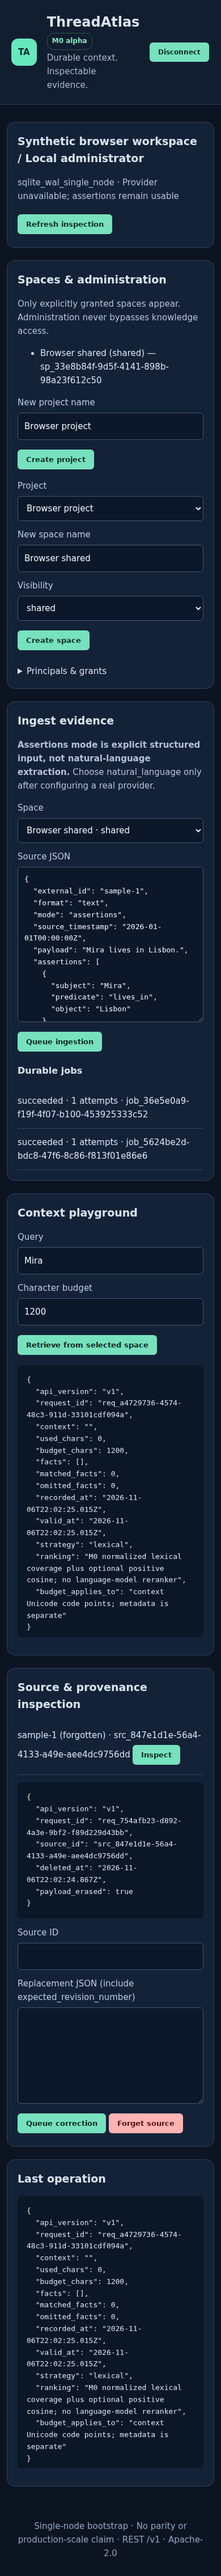
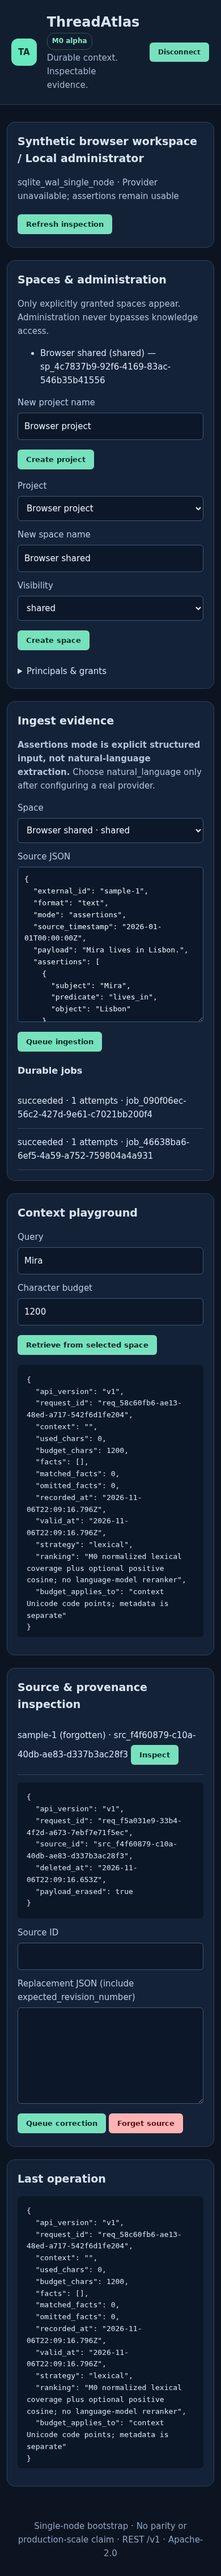
fix: keep engine recommendations diagnostic without a startup gate

diff --git a/scripts/storage-probe.ts b/scripts/storage-probe.ts
@@ -4,53 +4,14 @@ import { Store } from "../src/store.ts";
 import { fixture } from "../tests/helpers.ts";
 import { report, repo } from "./runtime.ts";
 import assert from "node:assert/strict";
-const dir = mkdtempSync(join(repo, ".private-storage-probe-")),
-  path = join(dir, "probe.sqlite");
-const f = await fixture(path);
-let reader: Store | undefined;
+const dir=mkdtempSync(join(repo,".private-storage-probe-")),path=join(dir,"probe.sqlite");
+const f=await fixture(path);let reader:Store|undefined;
 try {
-  const source = (await f.ingest()).body;
-  await f.worker.runOnce();
-  reader = new Store(path);
-  reader.db.exec("BEGIN");
-  reader.one("SELECT * FROM revisions");
-  const start = performance.now();
-  const forgotten = await f.call(
-    "DELETE",
-    "/v1/sources/" + source.source_id,
-    {},
-  );
-  const forget_ms = performance.now() - start;
-  assert.equal(forgotten.status, 200);
-  const while_reader = f.store.checkpoint();
-  assert.equal(while_reader.busy, 1);
-  assert.equal((await f.context()).body.facts.length, 0);
-  reader.db.exec("COMMIT");
-  reader.close();
-  reader = undefined;
-  const after_reader = f.store.checkpoint();
-  assert.equal(after_reader.busy, 0);
-  const result = {
-    run_at: new Date().toISOString(),
-    bun: Bun.version,
-    sqlite_version: f.store.sqlite_version,
-    journal_mode: f.store.one("PRAGMA journal_mode"),
-    synchronous: f.store.one("PRAGMA synchronous"),
-    secure_delete: f.store.one("PRAGMA secure_delete"),
-    busy_timeout: f.store.one("PRAGMA busy_timeout"),
-    long_reader: {
-      forget_ms: +forget_ms.toFixed(3),
-      logical_context_empty: true,
-      checkpoint_while_reader: while_reader,
-      checkpoint_after_reader: after_reader,
-    },
-    integrity_check: f.store.one("PRAGMA integrity_check"),
-    note: "Logical forgetting does not revoke a previously opened MVCC snapshot or external backup. Checkpoint is nonblocking in the API; no forensic erasure claim.",
-  };
-  await report("storage.json", result);
-  console.log(JSON.stringify(result, null, 2));
-} finally {
-  reader?.close();
-  f.store.close();
-  rmSync(dir, { recursive: true, force: true });
-}
+ const source=(await f.ingest()).body;await f.worker.runOnce();reader=new Store(path);reader.db.exec("BEGIN");reader.one("SELECT * FROM revisions");
+ const start=performance.now();const forgotten=await f.call("DELETE","/v1/sources/"+source.source_id,{});const forget_ms=performance.now()-start;
+ assert.equal(forgotten.status,200);const while_reader=f.store.checkpoint();assert.equal(while_reader.busy,1);
+ assert.equal((await f.context()).body.facts.length,0);reader.db.exec("COMMIT");reader.close();reader=undefined;
+ const after_reader=f.store.checkpoint();assert.equal(after_reader.busy,0);
+ const result={run_at:new Date().toISOString(),bun:Bun.version,sqlite_version:f.store.sqlite_version,journal_mode:f.store.one("PRAGMA journal_mode"),synchronous:f.store.one("PRAGMA synchronous"),secure_delete:f.store.one("PRAGMA secure_delete"),busy_timeout:f.store.one("PRAGMA busy_timeout"),long_reader:{forget_ms:+forget_ms.toFixed(3),logical_context_empty:true,checkpoint_while_reader:while_reader,checkpoint_after_reader:after_reader},integrity_check:f.store.one("PRAGMA integrity_check"),note:"Logical forgetting does not revoke a previously opened MVCC snapshot or external backup. Checkpoint is nonblocking in the API; no forensic erasure claim."};
+ await report("storage.json",result);console.log(JSON.stringify(result,null,2));
+}finally{reader?.close();f.store.close();rmSync(dir,{recursive:true,force:true});}

diff --git a/scripts/check-public.ts b/scripts/check-public.ts
@@ -1,8 +1,6 @@
 import { readFileSync } from "node:fs";
 const proc = Bun.spawn(["git", "ls-files", "-z"], { stdout: "pipe" });
-const files = (await new Response(proc.stdout).text())
-  .split("\0")
-  .filter(Boolean);
+const files = (await new Response(proc.stdout).text()).split("\0").filter(Boolean);
 if (await proc.exited) throw Error("git ls-files failed");
 const rules: [string, RegExp][] = [
   ["threadatlas_token", /ta_[A-Za-z0-9_-]{40,}/],
@@ -10,29 +8,12 @@ const rules: [string, RegExp][] = [
   ["openai_key", /sk-(?:proj-)?[A-Za-z0-9_-]{30,}/],
   ["private_key", /-----BEGIN (?:RSA |EC |OPENSSH )?PRIVATE KEY-----/],
 ];
-const findings: { file: string; rule: string }[] = [];
+const findings: {file:string;rule:string}[] = [];
 for (const file of files) {
-  if (
-    /(^|\/)(?:data|\.private[^/]*|node_modules)\//.test(file) ||
-    /\.(?:sqlite(?:-wal|-shm)?|credentials\.json)$/.test(file) ||
-    (/(^|\/)\.env(?:$|\.)/.test(file) && !file.endsWith(".env.example"))
-  )
-    findings.push({ file, rule: "private_path" });
+  if (/(^|\/)(?:data|\.private[^/]*|node_modules)\//.test(file) || /\.(?:sqlite(?:-wal|-shm)?|credentials\.json)$/.test(file) || /(^|\/)\.env(?:$|\.)/.test(file) && !file.endsWith(".env.example")) findings.push({file,rule:"private_path"});
   if (file.endsWith(".png")) continue;
-  const content = readFileSync(file, "utf8");
-  for (const [rule, pattern] of rules)
-    if (pattern.test(content)) findings.push({ file, rule });
+  const content = readFileSync(file,"utf8");
+  for (const [rule,pattern] of rules) if(pattern.test(content)) findings.push({file,rule});
 }
-console.log(
-  JSON.stringify(
-    {
-      result: findings.length ? "fail" : "pass",
-      tracked_files: files.length,
-      findings,
-      note: "Targeted known-token/private-path check, not a guarantee of complete secret detection; manually inspect public changes too.",
-    },
-    null,
-    2,
-  ),
-);
-if (findings.length) process.exitCode = 1;
+console.log(JSON.stringify({result: findings.length?"fail":"pass",tracked_files:files.length,findings,note:"Targeted known-token/private-path check, not a guarantee of complete secret detection; manually inspect public changes too."},null,2));
+if(findings.length)process.exitCode=1;

diff --git a/src/store.ts b/src/store.ts
@@ -75,6 +75,10 @@ export function patchedSQLite(version: string): boolean {
 export class Store {
   db: Database;
   sqlite_version: string;
+  sqlite_wal_reset_fix:
+    | "known_patched"
+    | "upgrade_recommended"
+    | "not_applicable";
   constructor(public path: string) {
     if (path !== ":memory:") {
       mkdirSync(dirname(path), { recursive: true, mode: 0o700 });
@@ -83,12 +87,20 @@ export class Store {
     this.sqlite_version = this.one(
       "SELECT sqlite_version() AS version",
     ).version;
-    if (path !== ":memory:" && !patchedSQLite(this.sqlite_version)) {
-      this.db.close();
-      fail(
-        500,
-        "unsupported_sqlite",
-        "SQLite lacks the WAL-reset corruption fix. Upgrade to Bun 1.4.4+ with patched SQLite (3.51.3+, or 3.50.7/3.44.6 backport). See docs/operations.md.",
+    this.sqlite_wal_reset_fix =
+      path === ":memory:"
+        ? "not_applicable"
+        : patchedSQLite(this.sqlite_version)
+          ? "known_patched"
+          : "upgrade_recommended";
+    if (this.sqlite_wal_reset_fix === "upgrade_recommended") {
+      console.warn(
+        JSON.stringify({
+          event: "sqlite_upgrade_recommended",
+          sqlite_version: this.sqlite_version,
+          message:
+            "This version predates the published WAL-reset fix. Bun 1.4.4 with SQLite 3.53.4 is the verified release baseline; see docs/operations.md. Startup is not blocked.",
+        }),
       );
     }
     if (path !== ":memory:") chmodSync(path, 0o600);

diff --git a/src/app.ts b/src/app.ts
@@ -167,6 +167,7 @@ export class App {
           provider: providerStatus(),
           storage: "sqlite_wal_single_node",
           sqlite_version: this.store.sqlite_version,
+          sqlite_wal_reset_fix: this.store.sqlite_wal_reset_fix,
           extraction_modes: ["assertions", "natural_language"],
           queue: this.store.all(
             "SELECT j.status,COUNT(*) AS count FROM jobs j JOIN revisions r ON r.id=j.revision_id JOIN sources s ON s.id=r.source_id JOIN grants g ON g.space_id=s.space_id AND g.principal_id=? AND g.action='read' WHERE s.workspace_id=? GROUP BY j.status",

diff --git a/tests/storage.test.ts b/tests/storage.test.ts
@@ -4,7 +4,7 @@ import { fixture } from "./helpers.ts";
 import { mkdtempSync, rmSync } from "node:fs";
 import { join } from "node:path";
 
-test("WAL engine guard excludes known vulnerable versions and permits published fixes", () => {
+test("WAL diagnostics identify known unpatched versions and published fixes", () => {
   for (const version of ["3.50.4", "3.51.2", "3.44.5", "invalid"])
     expect(patchedSQLite(version)).toBe(false);
   for (const version of ["3.51.3", "3.53.4", "3.50.7", "3.44.6"])

diff --git a/docs/verification.md b/docs/verification.md
@@ -3,17 +3,17 @@
 Initial alpha verification on 2026-11-06 UTC, Bun 1.4.4 / SQLite 3.53.4 / Linux (WSL2). These commands ran, rather than
 being proposed commands. The repository's CI repeats the portable checks on ubuntu-24.04.
 
-| Command                           | Actual result                                                                                                                                                                           |
-| --------------------------------- | --------------------------------------------------------------------------------------------------------------------------------------------------------------------------------------- |
-| bun install --frozen-lockfile     | Installed/checked the real pinned dependencies                                                                                                                                          |
-| bun run check                     | Passed TypeScript checking                                                                                                                                                              |
-| bun test tests                    | 24 passed, 0 failed, 134 assertions across 4 files                                                                                                                                      |
-| bun run test:e2e                  | Passed real HTTP server, JSON CLI, on-disk WAL, SIGKILL + restart, expired/queued recovery, source history, isolation, forgetting/support repair and integrity_check                    |
-| e2e stopped backup/restore + demo | Passed copied stopped DB into new path, reused saved credential, complete executable agent loop against restored server                                                                 |
-| bun run test:ui                   | Passed Chromium 140 desktop/mobile with actual scopes, ingestion/jobs/context, source inspection, correction/forget, no page errors, no browser-stored token and no horizontal overflow |
-| bun run provider:probe            | Actual production adapter returned failed/provider_unavailable, one attempt, zero facts; no supported key present                                                                       |
-| bun run bench                     | Completed all 120/600/1200-source generated HTTP cases; raw counts/latency/RSS/storage and limitations recorded                                                                         |
-| bun audit                         | No vulnerabilities found in the installed lockfile at execution time                                                                                                                    |
+| Command | Actual result |
+|---|---|
+| bun install --frozen-lockfile | Installed/checked the real pinned dependencies |
+| bun run check | Passed TypeScript checking |
+| bun test tests | 24 passed, 0 failed, 134 assertions across 4 files |
+| bun run test:e2e | Passed real HTTP server, JSON CLI, on-disk WAL, SIGKILL + restart, expired/queued recovery, source history, isolation, forgetting/support repair and integrity_check |
+| e2e stopped backup/restore + demo | Passed copied stopped DB into new path, reused saved credential, complete executable agent loop against restored server |
+| bun run test:ui | Passed Chromium 140 desktop/mobile with actual scopes, ingestion/jobs/context, source inspection, correction/forget, no page errors, no browser-stored token and no horizontal overflow |
+| bun run provider:probe | Actual production adapter returned failed/provider_unavailable, one attempt, zero facts; no supported key present |
+| bun run bench | Completed all 120/600/1200-source generated HTTP cases; raw counts/latency/RSS/storage and limitations recorded |
+| bun audit | No vulnerabilities found in the installed lockfile at execution time |
 
 Async regression coverage includes streamed-body credential revocation, credential/grant revocation
 during query embedding, source forget during embedding (no stale cached fact response), and forget

diff --git a/docs/measurements.md b/docs/measurements.md
@@ -4,11 +4,11 @@ Measured 2026-11-06T22:02:53.176Z on Bun 1.4.4, SQLite 3.53.4, Linux/WSL2, 16 lo
 
 Generated deterministic assertions, real HTTP + on-disk SQLite WAL synchronous FULL, one server + one serial worker. Payload bodies contain padding; 1-4 explicit facts/source. Each query searches one authorized space. RSS sampled /proc at 10ms. Warm retrieval follows complete ingestion. No model, vector or quality/cost/parity claim. These are local measurements, not load guarantees.
 
-| Workload           | Sources / spaces / facts | Payload bytes | Concurrency | Receipts/s | Completed jobs/s | Retrieval p50 / p95 ms | Peak server RSS MiB |
-| ------------------ | -----------------------: | ------------: | ----------: | ---------: | ---------------: | ---------------------: | ------------------: |
-| small              |            120 / 3 / 300 |        61,440 |           4 |      92.19 |            88.04 |         9.492 / 18.983 |               60.18 |
-| varied_multi_space |          600 / 12 / 1500 |     7,475,200 |          24 |     128.99 |            98.26 |        85.714 / 97.189 |               75.38 |
-| larger_hot_space   |          1200 / 4 / 3000 |     5,529,600 |          32 |     134.84 |            93.51 |      657.243 / 836.969 |               89.09 |
+| Workload | Sources / spaces / facts | Payload bytes | Concurrency | Receipts/s | Completed jobs/s | Retrieval p50 / p95 ms | Peak server RSS MiB |
+|---|---:|---:|---:|---:|---:|---:|---:|
+| small | 120 / 3 / 300 | 61,440 | 4 | 92.19 | 88.04 | 9.492 / 18.983 | 60.18 |
+| varied_multi_space | 600 / 12 / 1500 | 7,475,200 | 24 | 128.99 | 98.26 | 85.714 / 97.189 | 75.38 |
+| larger_hot_space | 1200 / 4 / 3000 | 5,529,600 | 32 | 134.84 | 93.51 | 657.243 / 836.969 | 89.09 |
 
 These are one-run warm, generated HTTP workloads on one development host, not published capacity guarantees. Request latency includes queueing under the stated concurrency; single-request service time was not separately measured. Job rate covers the whole ingest-to-completion interval, not just the worker kernel. Payload padding varies request/storage sizes; facts are supplied, not extracted from that padding.
 

diff --git a/docs/operations.md b/docs/operations.md
@@ -2,7 +2,7 @@
 
 ## Runtime
 
-Use Bun 1.4.4+ on Linux/macOS (Linux is the tested release environment). Windows Bun is not yet a
+Bun 1.4.4 is the verified, recommended baseline on Linux/macOS (Linux is the tested release environment). Windows Bun is not yet a
 verified serving target. The runtime has no npm production dependencies. `bun install --production
 --frozen-lockfile` and `bun start` run source directly. Development tools/tests need a normal install.
 Default listener is loopback `127.0.0.1:8787`. Keep it there unless you configure a trusted TLS reverse
@@ -23,9 +23,9 @@ Tokens are random high-entropy values hashed with SHA-256, not user passwords ne
 
 The release was reverified with Bun 1.4.4 and its SQLite 3.53.4. SQLite documents a rare WAL-reset
 corruption race in 3.7.0 through 3.51.2, fixed in 3.51.3+ and backports 3.50.7/3.44.6:
-https://sqlite.org/wal.html#walreset . Persistent WAL storage checks the actual engine version and
-fails actionably on a known-unpatched engine rather than claiming the restart tests fix it. In-memory
-fixtures are exempt because they do not use persistent WAL. Use the supported current Bun runtime;
+https://sqlite.org/wal.html#walreset . Persistent WAL storage reports the actual engine version and
+an actionable upgrade recommendation for a version predating the published fix; this is diagnostic,
+not an added startup admission gate. In-memory fixtures do not need a persistent-WAL warning. Use the supported current Bun runtime;
 there is no need to replace another project's runtime or introduce an extra database service.
 
 Long-lived external SQLite readers can retain old MVCC snapshots and prevent WAL truncation. API

diff --git a/CONTRIBUTING.md b/CONTRIBUTING.md
@@ -1,6 +1,6 @@
 # Contributing
 
-Install Bun 1.4.4+, clone, and run `bun install --frozen-lockfile`. `bun run check`, `bun test tests`
+Install the recommended Bun 1.4.4 runtime, clone, and run `bun install --frozen-lockfile`. `bun run check`, `bun test tests`
 and `bun run test:e2e` need no private service. Browser checks use `bunx playwright install chromium`
 and `bun run test:ui`. `bun run bench` creates disclosed generated data and deletes private databases.
 

diff --git a/README.md b/README.md
@@ -12,7 +12,7 @@ and explicit space/action grants keep separate callers and personal/shared space
 
 ## Try it
 
-Install [Bun](https://bun.sh/) 1.4.4 or newer, then:
+Install [Bun](https://bun.sh/) (1.4.4 is the verified, recommended baseline), then:
 
 ```sh
 git clone https://github.com/itsNintu/threadatlas.git
